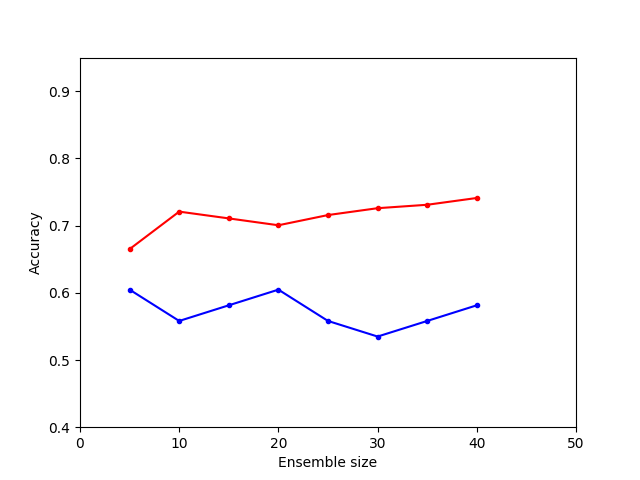
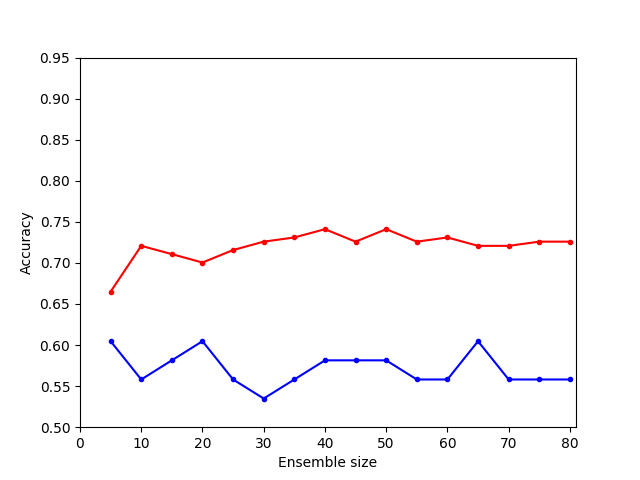
Trying to improve mainCK

diff --git a/src/data.py b/src/data.py
@@ -22,8 +22,8 @@ def getPersonAndEmotionFromFileName(imageName, oneHotEncoded=True):
 
 def normalizeImage(image):
     # image = image / 2 ** 16
+    # image = (image - image.mean()) / (image.std() + 1e-8)
     return image
-    # return (image - image.mean()) / (image.std() + 1e-8)
 
 
 def labelEncode(groups):
@@ -64,19 +64,20 @@ def getCohnKanadeData(oneHotEncoded=True):
 
             relevantImages = [imagesNames[0], imagesNames[-2], imagesNames[-1]]
 
-            # First image corresponds to neutral
-            # images.append(getImage(emotion_full_dir + '/' + relevantImages[0]))
-            # if oneHotEncoded:
-            #     emotions.append(CK_NEUTRAL_CODED_EMOTION)
-            # else:
-            #     emotions.append(CK_NEUTRAL_EMOTION_NUM)
-
             emotion = getCKEmotion(personDir, emotionDir, oneHotEncoded)
             if emotion is None:
                 continue
 
+            # First image corresponds to neutral
+            images.append(getImage(emotion_full_dir + '/' + relevantImages[0]))
+            if oneHotEncoded:
+                emotions.append(CK_NEUTRAL_CODED_EMOTION)
+            else:
+                emotions.append(CK_NEUTRAL_EMOTION_NUM)
+            people.append(personDir)
+
             # Last two images to the real emotion
-            for imageName in relevantImages:
+            for imageName in relevantImages[1:]:
                 images.append(getImage(emotion_full_dir + '/' + imageName))
                 emotions.append(emotion)
                 people.append(personDir)
@@ -122,7 +123,7 @@ CK_EMOTIONS = [
     'HAPPY',
     'SADNESS',
     'SUPRISE',
-    # 'NEUTRAL'
+    'NEUTRAL'
 ]
 CK_NUM_EMOTIONS = len(CK_EMOTIONS)
 CK_CODED_EMOTIONS = [np_utils.to_categorical(i, CK_NUM_EMOTIONS) for i in range(CK_NUM_EMOTIONS)]

diff --git a/src/mainCK.py b/src/mainCK.py
@@ -5,7 +5,7 @@ try:
     useJAFFE = int(useJAFFE)
     personDependent = int(personDependent)
 except ValueError:
-    useJAFFE = True
+    useJAFFE = False
     personDependent = True
 
 from conf import Configuration, RunnerConfiguration, ESNGenerationConfiguration, CNNGenerationConfiguration
@@ -14,7 +14,7 @@ from model import Runner
 # Optimal: (2, 3, 4), 10, 50, 2, 5)
 
 cnnGenerationConf = CNNGenerationConfiguration(
-    layer_range=[2],
+    layer_range=[2, 3],
     num_kernels_min=10, num_kernels_max=100,
     kernel_size_min=2, kernel_size_max=5,
     pool_size_range=[2, 2],
